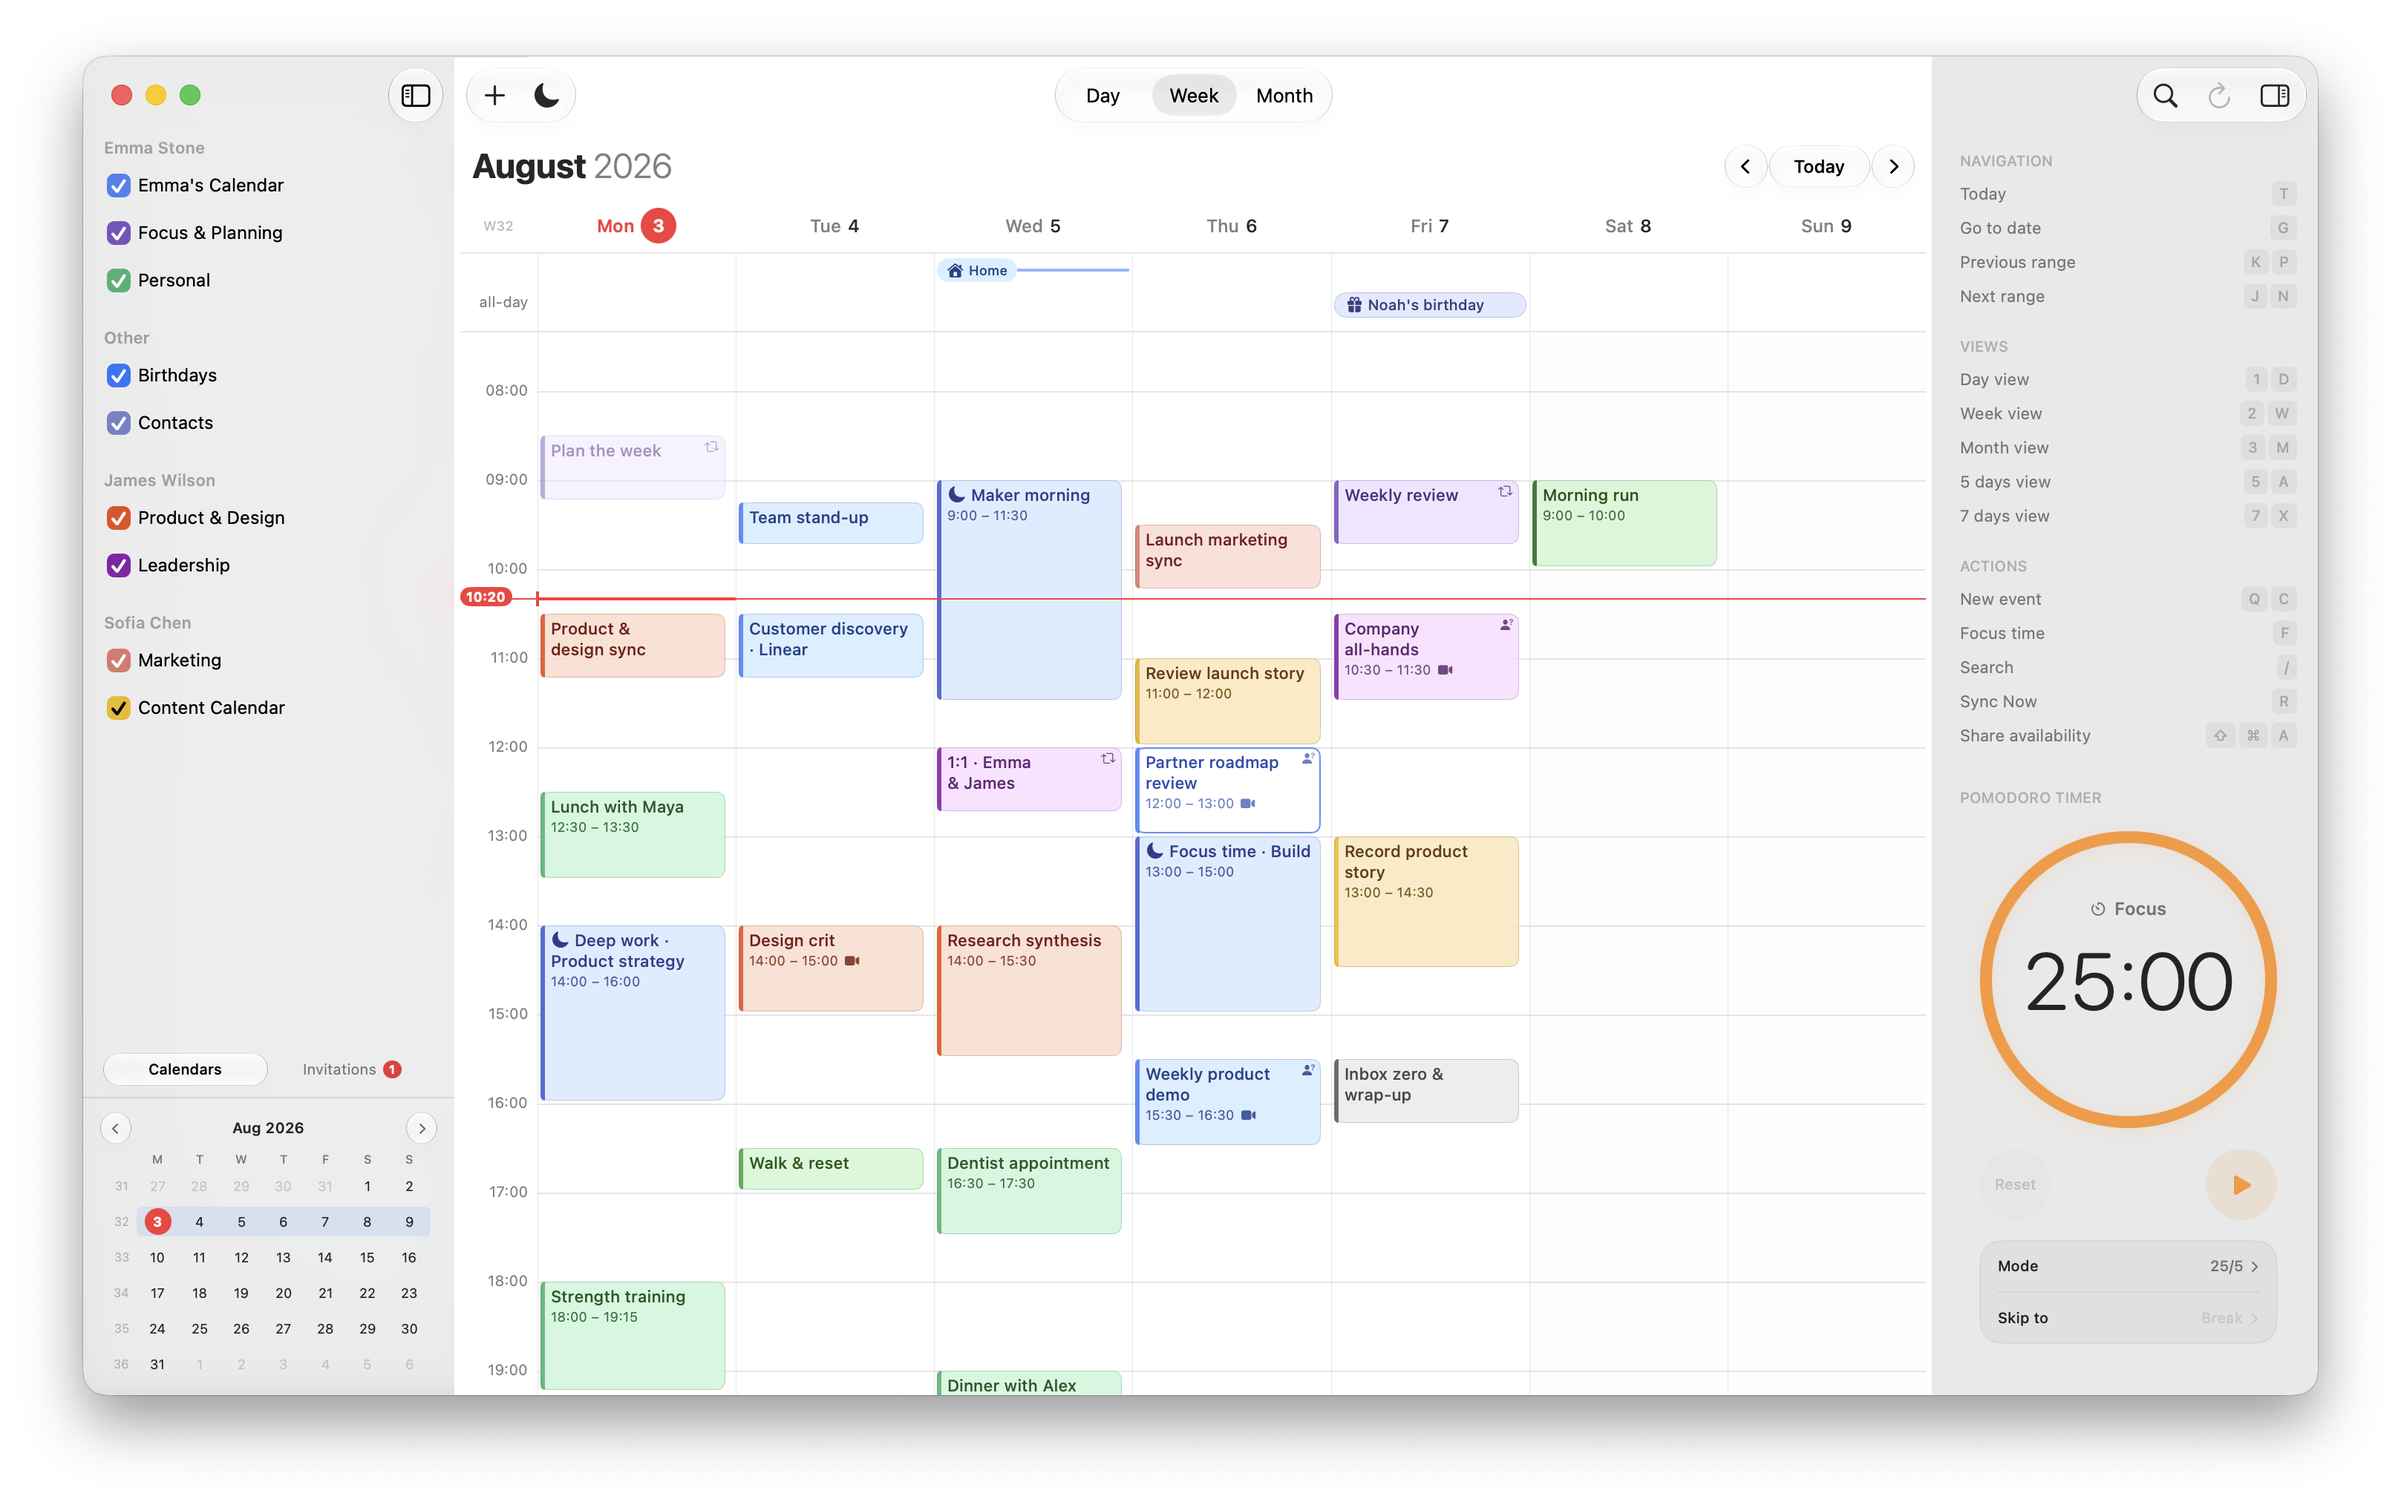
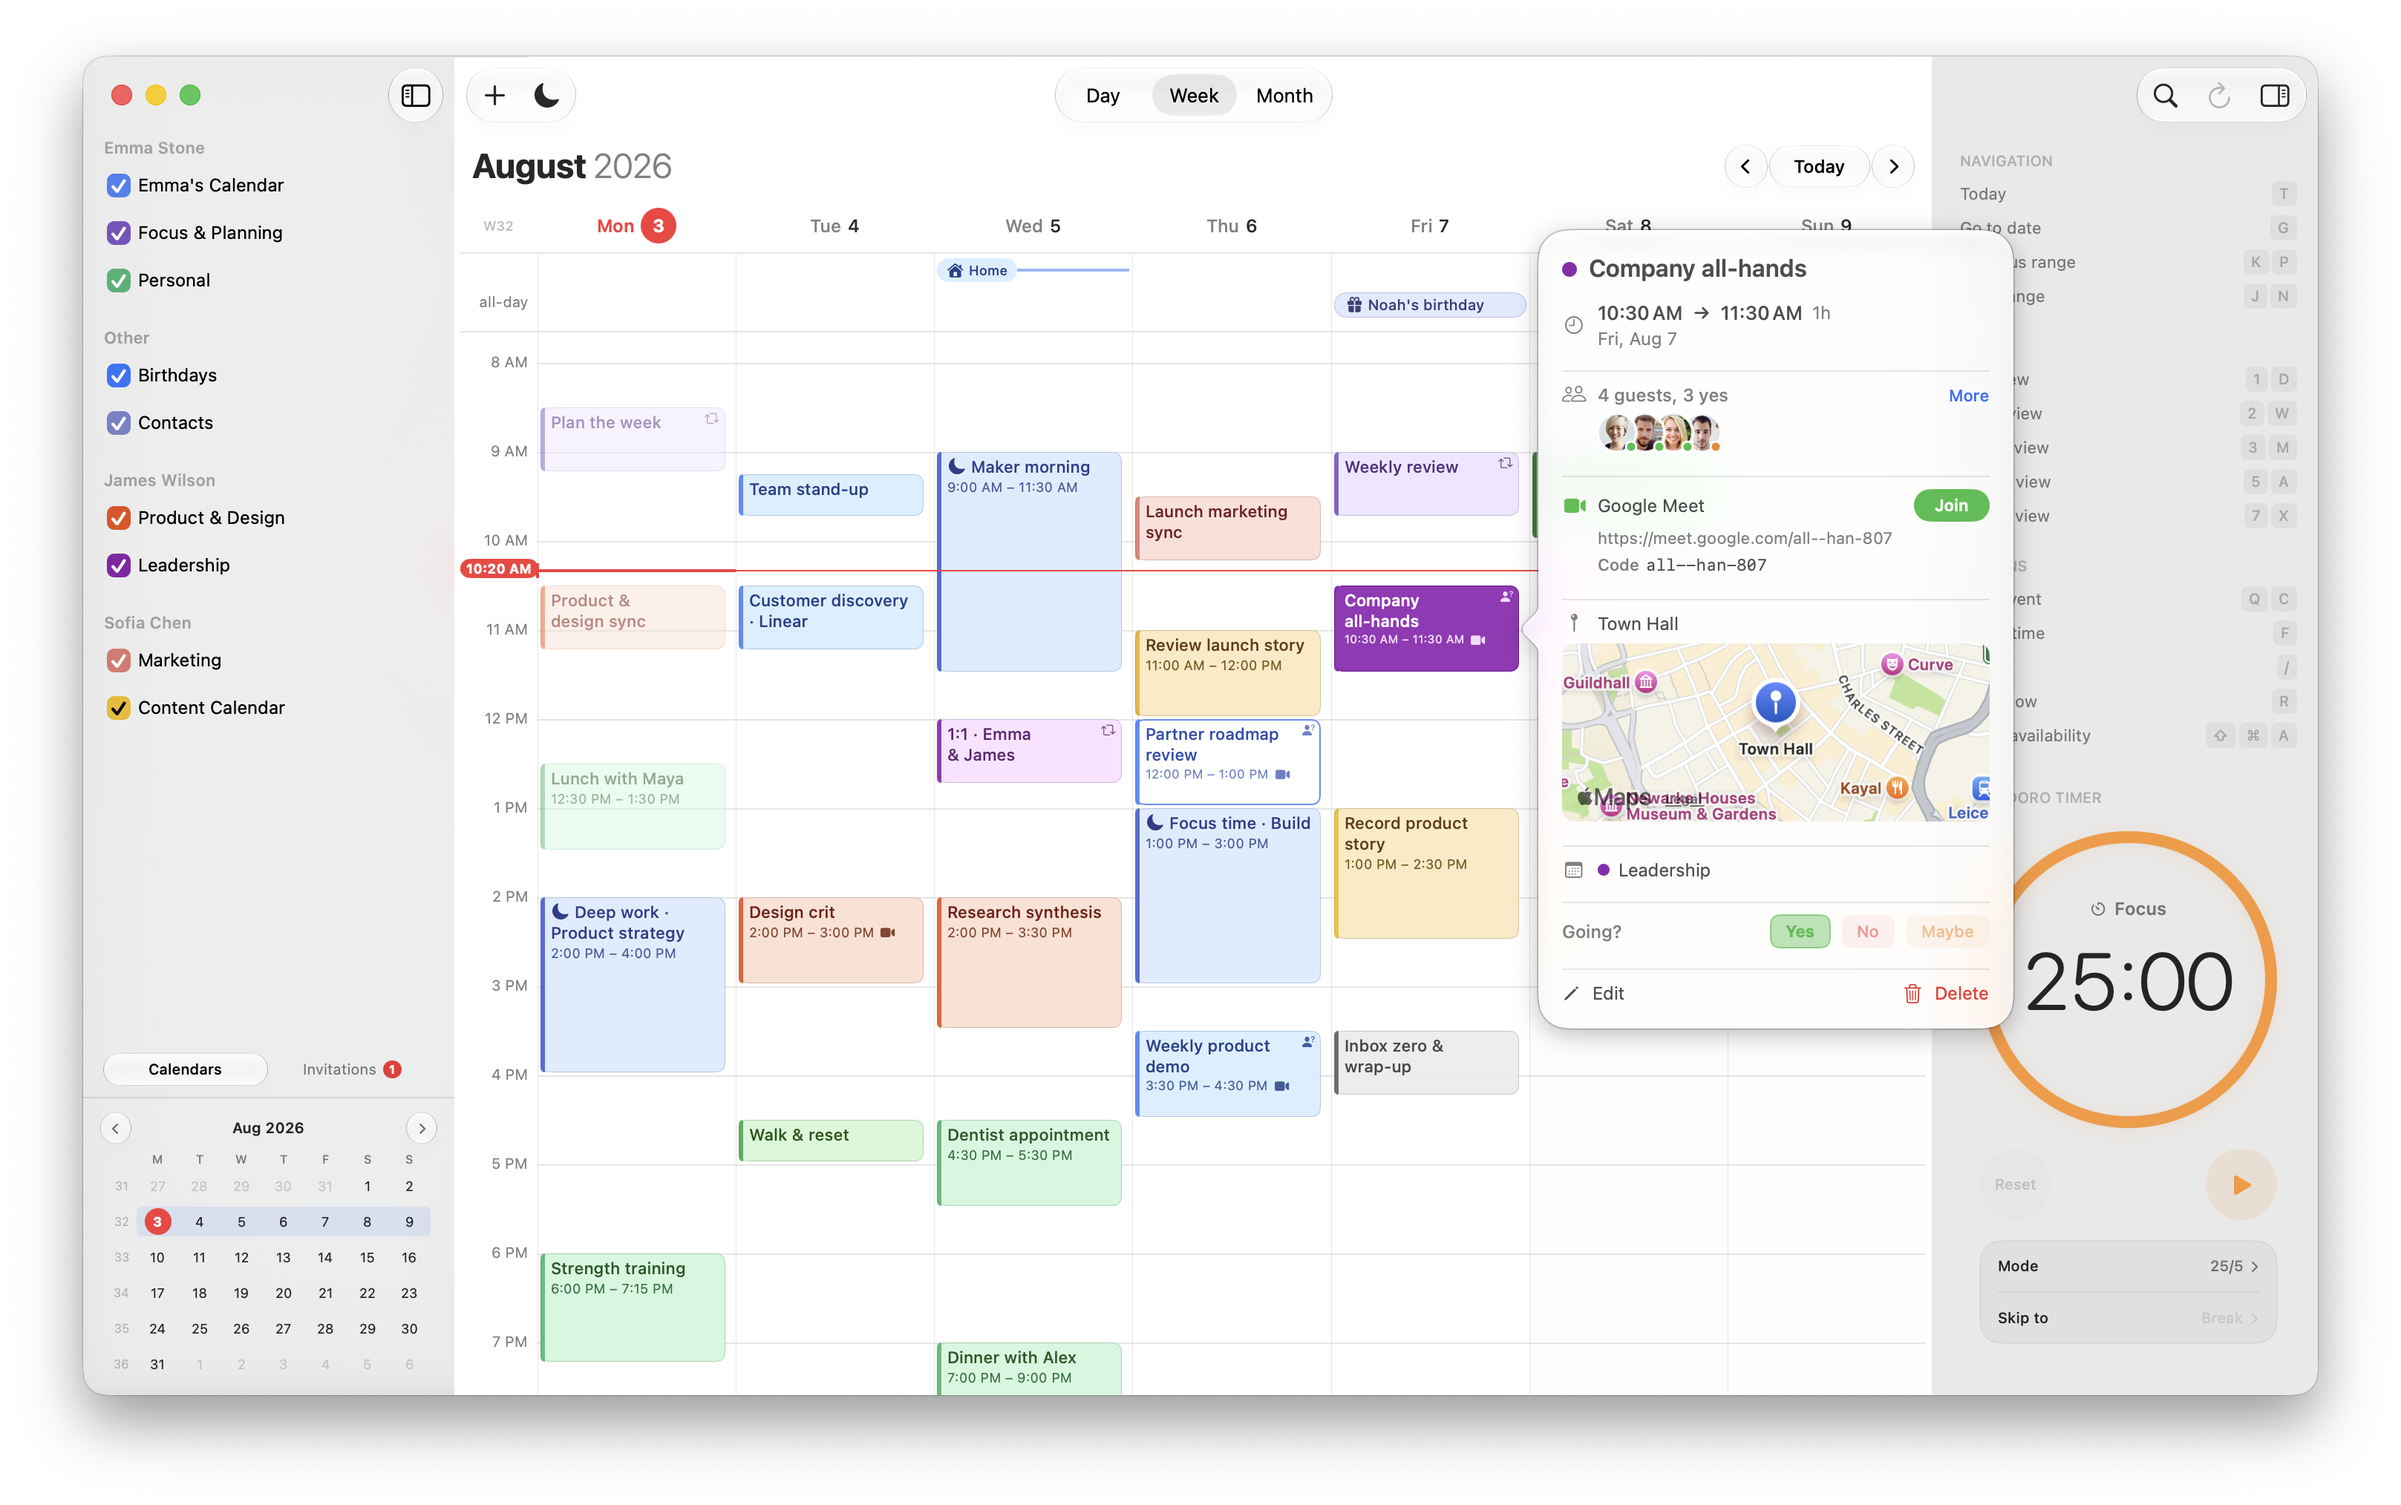
feat: update landing page header and replace hero image

diff --git a/app/pricing/page.tsx b/app/pricing/page.tsx
@@ -56,10 +56,7 @@ export default function PricingPage() {
     <main className="px-5 pb-28 pt-28 sm:px-10 sm:pb-40 sm:pt-40">
       <div className="mx-auto max-w-4xl">
         <header className="mx-auto max-w-3xl text-center">
-          <p className="text-sm font-semibold uppercase tracking-[0.16em] text-accent">
-            hora Calendar Direct
-          </p>
-          <h1 className="mt-5 text-balance text-5xl font-semibold tracking-[-0.065em] text-text sm:text-7xl">
+          <h1 className="text-balance text-5xl font-semibold tracking-[-0.065em] text-text sm:text-7xl">
             Download first. Choose your plan in the app.
           </h1>
           <p className="mx-auto mt-7 max-w-2xl text-balance text-lg leading-8 text-muted sm:text-xl">
